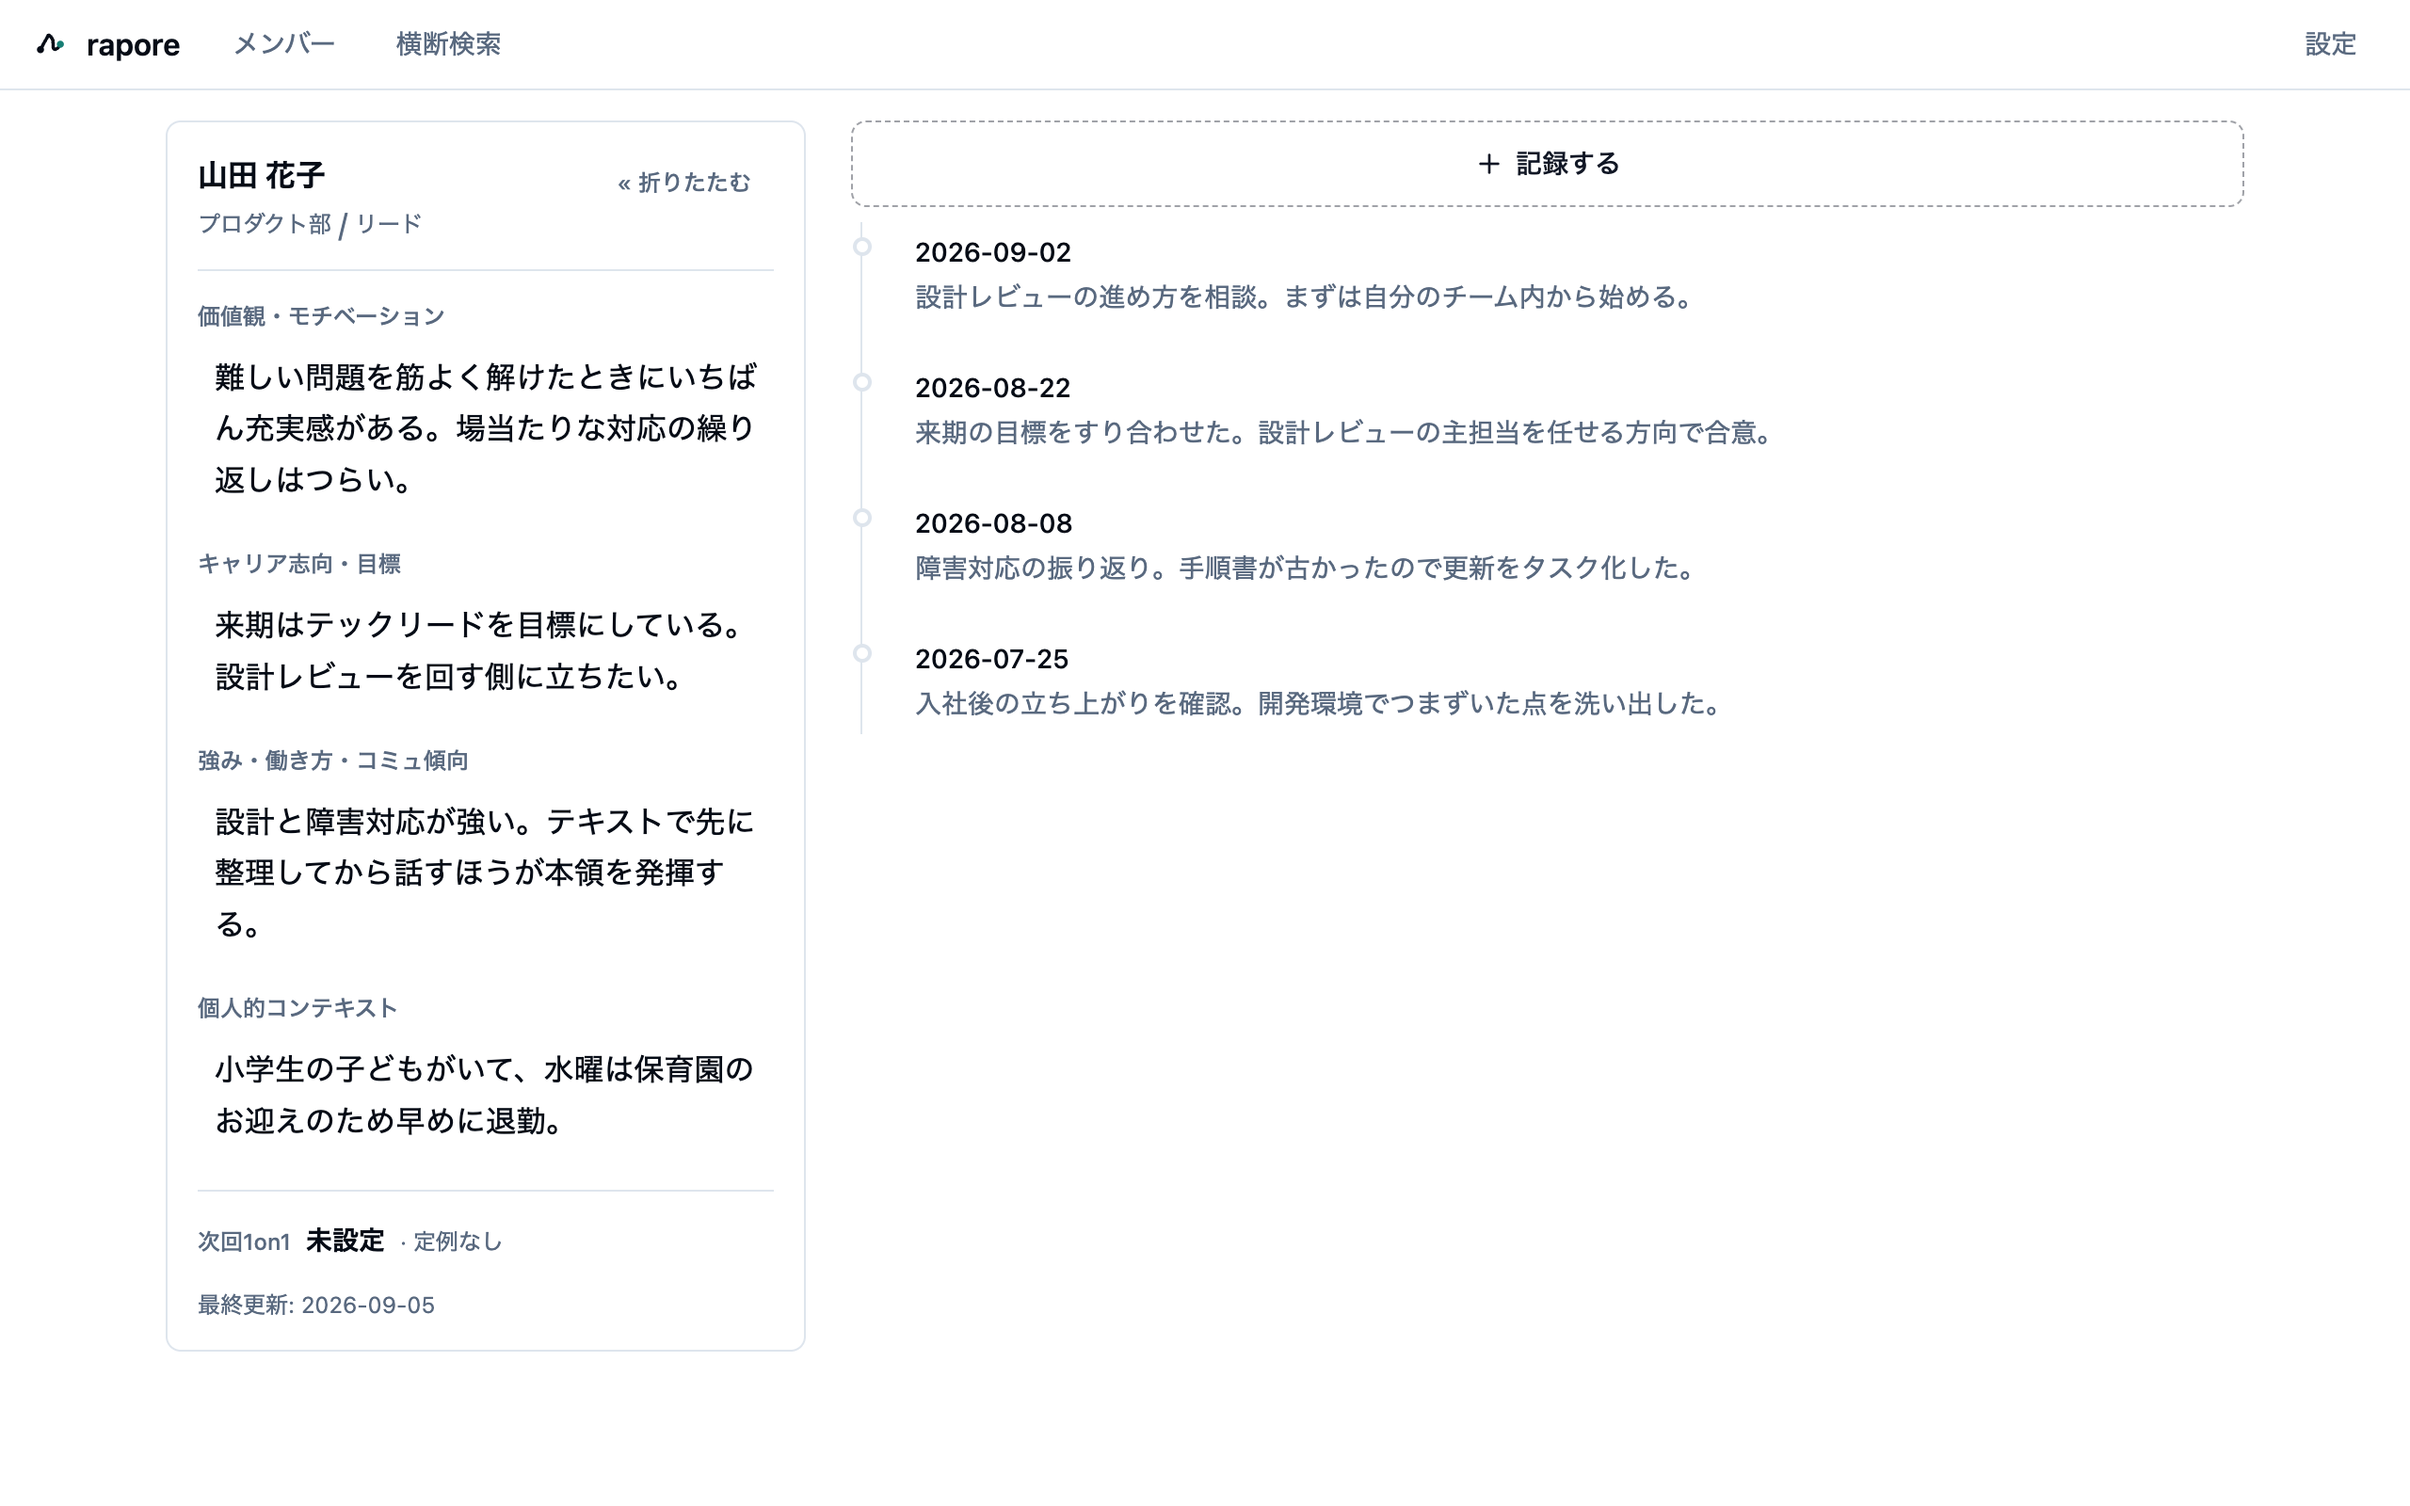
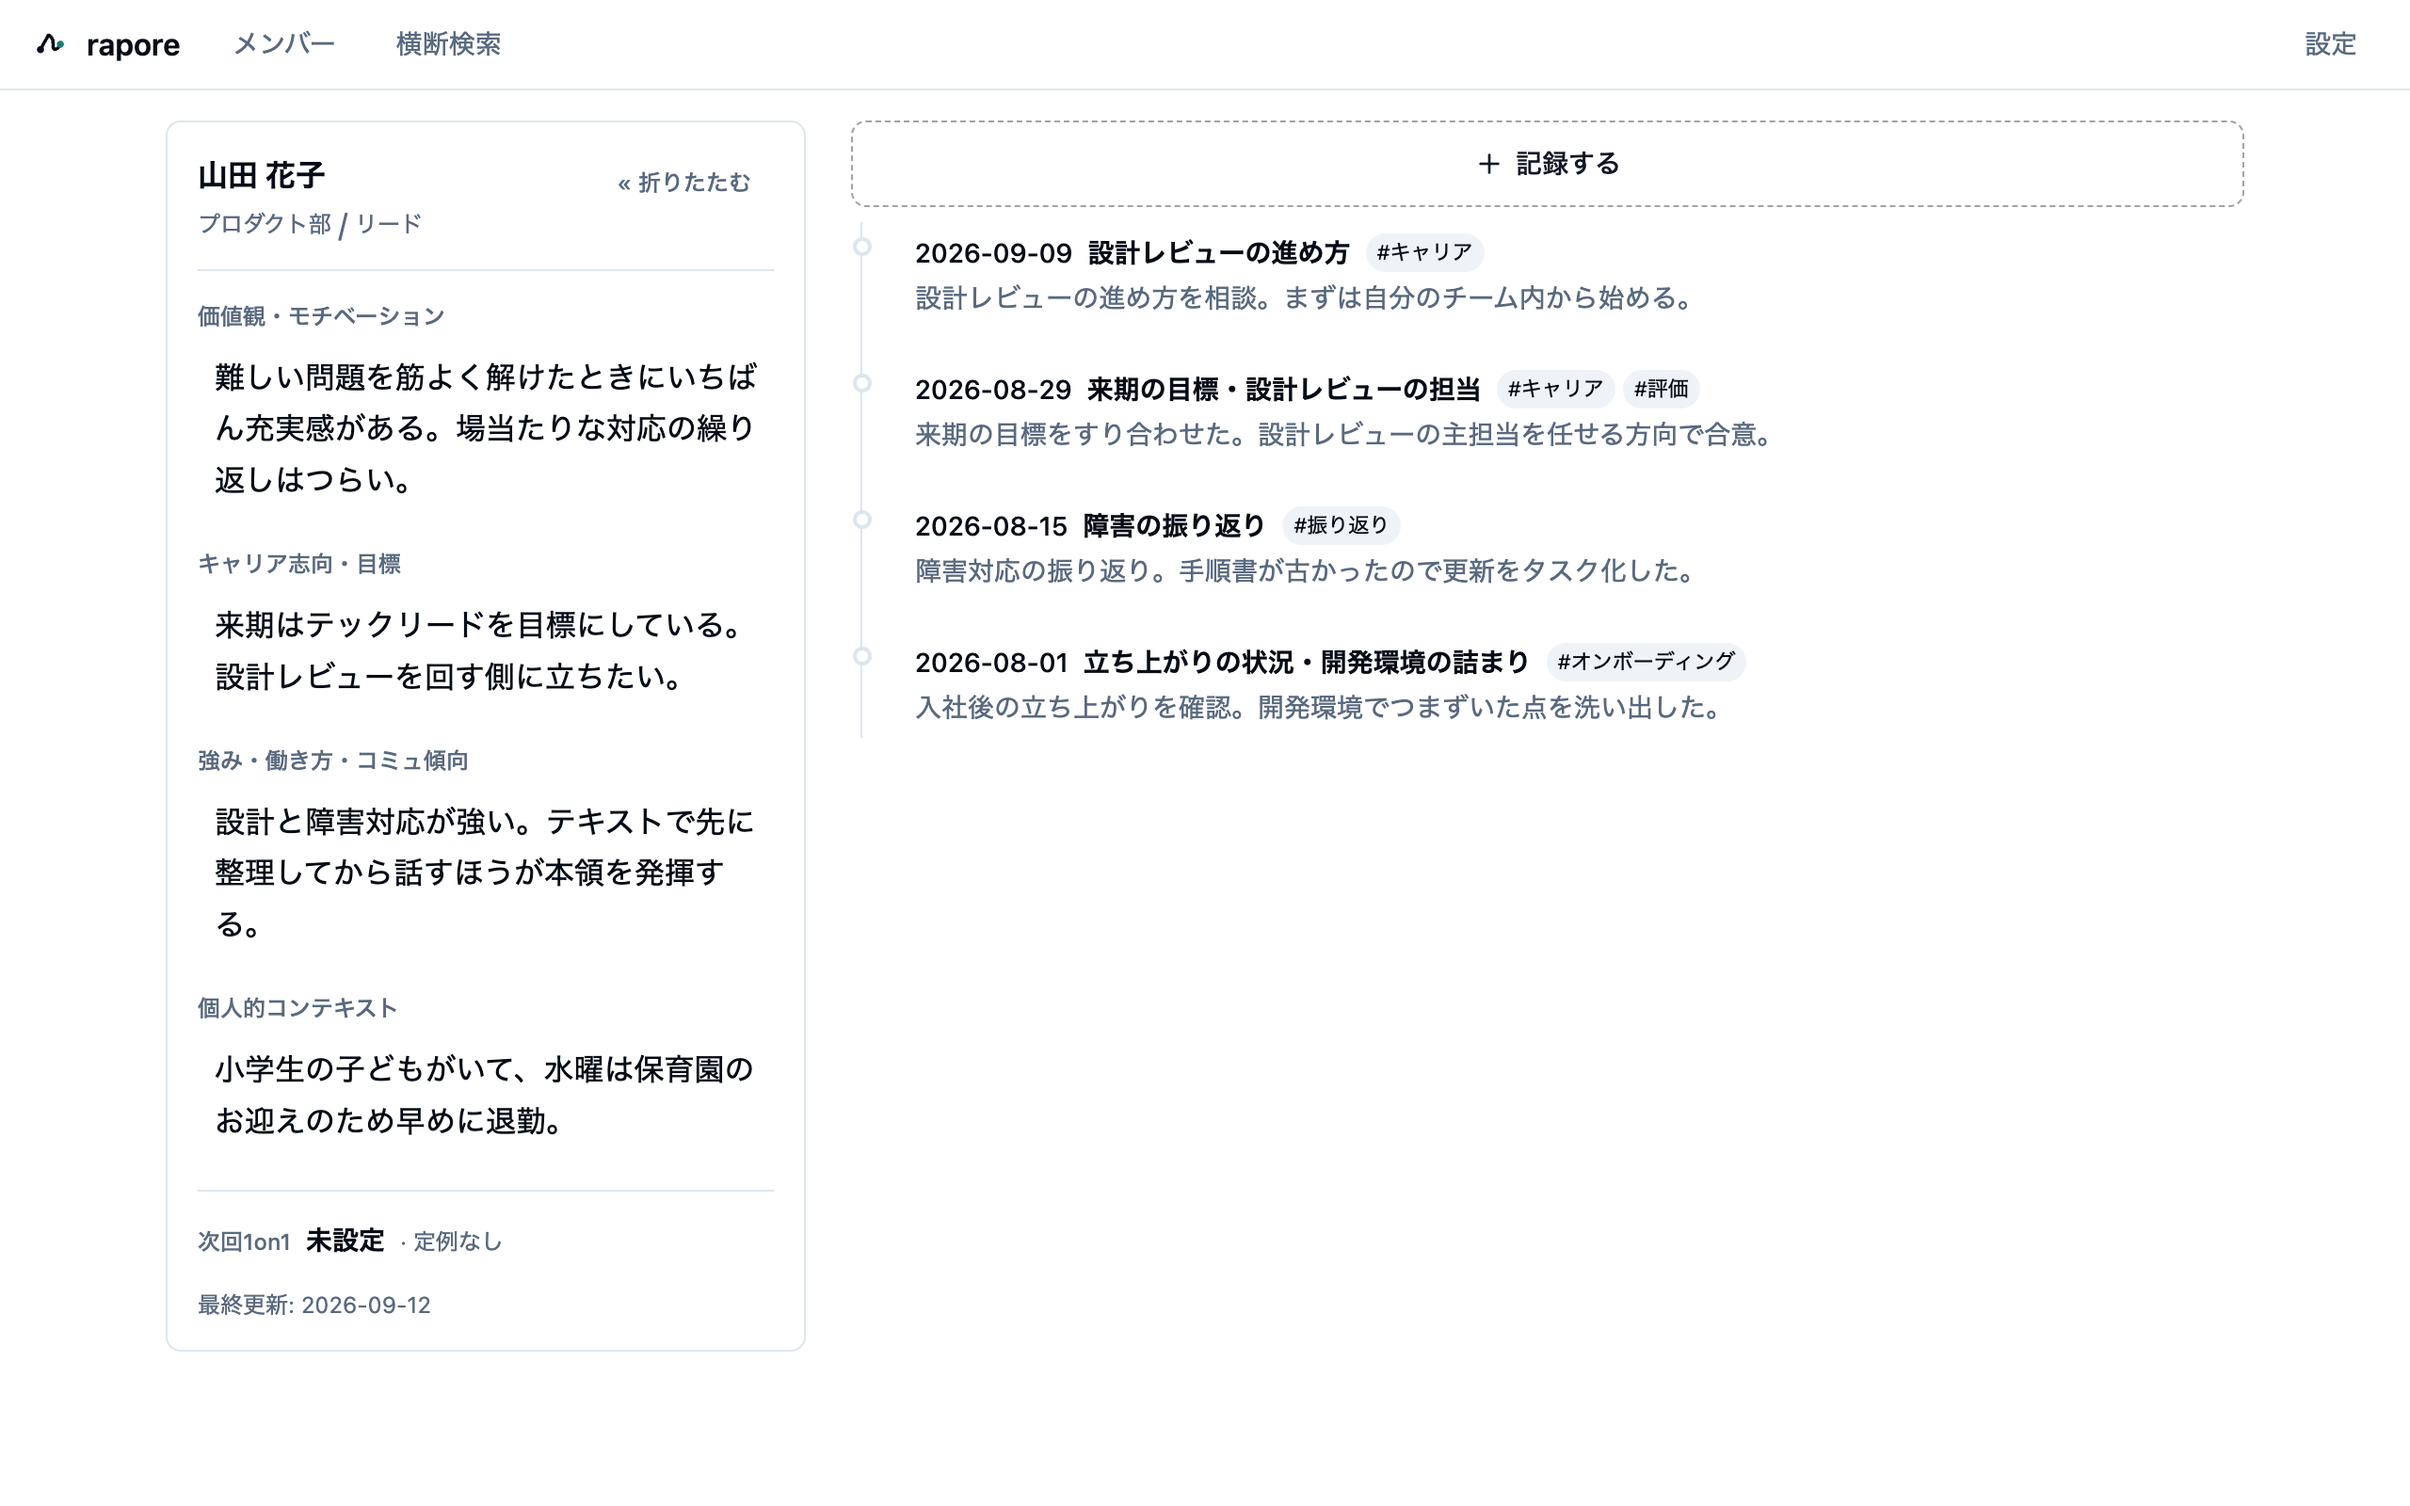
v0.2.0 のドキュメントを更新する

Changed region(s): [[0.375, 0.3438, 0.7188, 0.5], [0.375, 0.25, 0.75, 0.3125], [0.375, 0.1562, 0.6875, 0.2188]]

diff --git a/CHANGELOG.md b/CHANGELOG.md
@@ -4,6 +4,23 @@
 
 利用者から見える変更のみを記載しています。
 
+## v0.2.0
+
+**記録を削除できない不具合を修正しました。** 記録を開いて「削除」→「削除する」と進んでも何も起きない状態でした（v0.1.0 / v0.1.1 が該当します）。
+
+**日本語入力の変換を確定する Enter が、そのまま保存・追加として扱われる不具合を修正しました。** 「たろう」と打って変換した瞬間にメンバーが追加される、といったことが起きなくなります。メンバーの追加・氏名やチームの編集・タグの入力が対象です。
+
+**トピックとタグの入力を作り直しました。** 入力して Enter を押すと「チップ」になり、× で消せます。**カンマ区切りや改行のまま貼り付けると、まとめて追加されます**（別のメモからコピーしてくるときに便利です）。トピックはドラッグで並べ替えできます。
+
+**横断検索にタグ・期間の絞り込みを追加しました。** キーワードを入れなくても、タグや期間だけで記録を絞り込めます。
+
+**記録一覧が読みやすくなりました。** その回に話したトピックが見出しとして目立つようになりました。
+
+既知の制限（v0.1.1 から変わりません）
+
+- コード署名を行っていないため、初回起動時に OS の警告が出ます。開き方は [INSTALL.md](./INSTALL.md) をご覧ください。
+- macOS は Apple Silicon（M1 以降）のみ対応です。
+
 ## v0.1.1
 
 **macOS 版が「壊れているため開けません」と表示されて起動できない不具合を修正しました。**

diff --git a/CHANGELOG.en.md b/CHANGELOG.en.md
@@ -4,6 +4,23 @@
 
 Only changes that are visible to you are listed here.
 
+## v0.2.0
+
+**Fixed: sessions could not be deleted.** Opening a session and choosing "Delete" then confirming did nothing (this affected v0.1.0 and v0.1.1).
+
+**Fixed: the Enter key that confirms Japanese IME conversion was treated as "save" or "add".** Typing a name in Japanese no longer adds the member the moment you confirm the conversion. This affected adding members, editing name and team, and entering tags.
+
+**Topics and tags now use a chip input.** Type and press Enter to turn the text into a chip, and remove it with ×. **Pasting a comma- or newline-separated list adds every item at once**, which helps when copying from another note. Topics can be reordered by dragging.
+
+**Search now has tag and period filters.** You can narrow sessions down by tag or date range without typing a keyword.
+
+**The session list is easier to scan.** The topics you covered now stand out as the heading of each entry.
+
+Known limitations (unchanged since v0.1.1)
+
+- The app is not code-signed, so your OS shows a warning the first time you open it. See [INSTALL.en.md](./INSTALL.en.md).
+- macOS builds are for Apple Silicon (M1 or later) only.
+
 ## v0.1.1
 
 **Fixes the macOS build refusing to launch with "rapore is damaged and can't be opened."**
